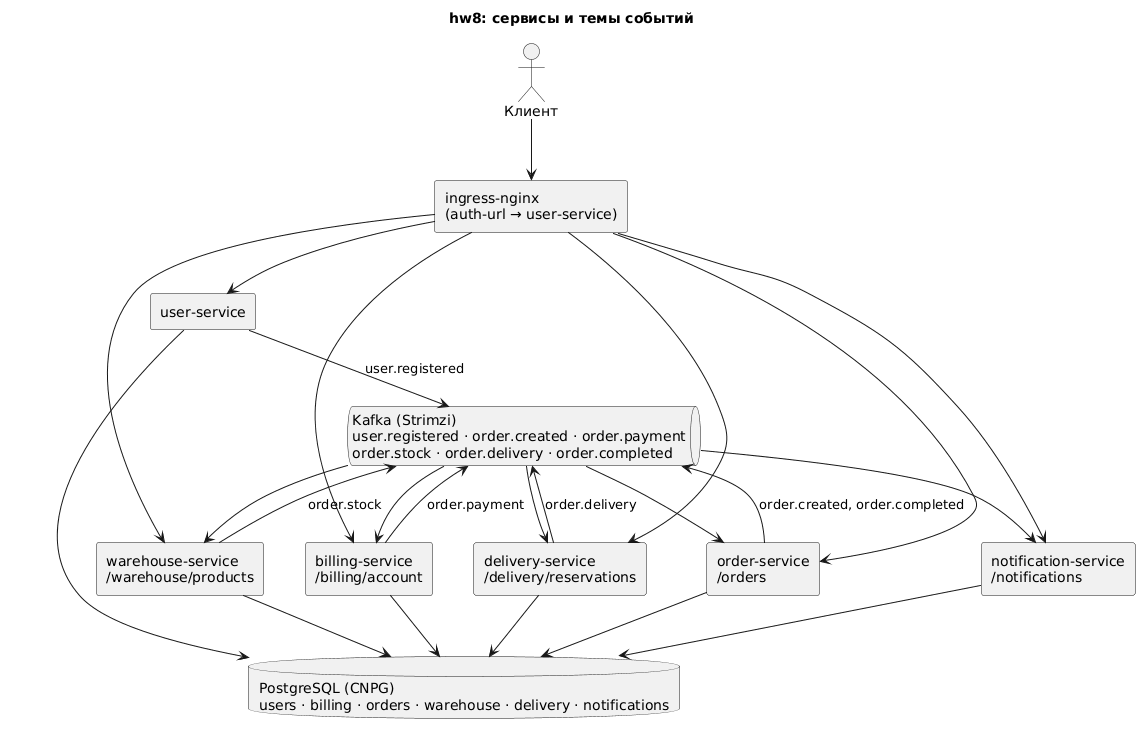
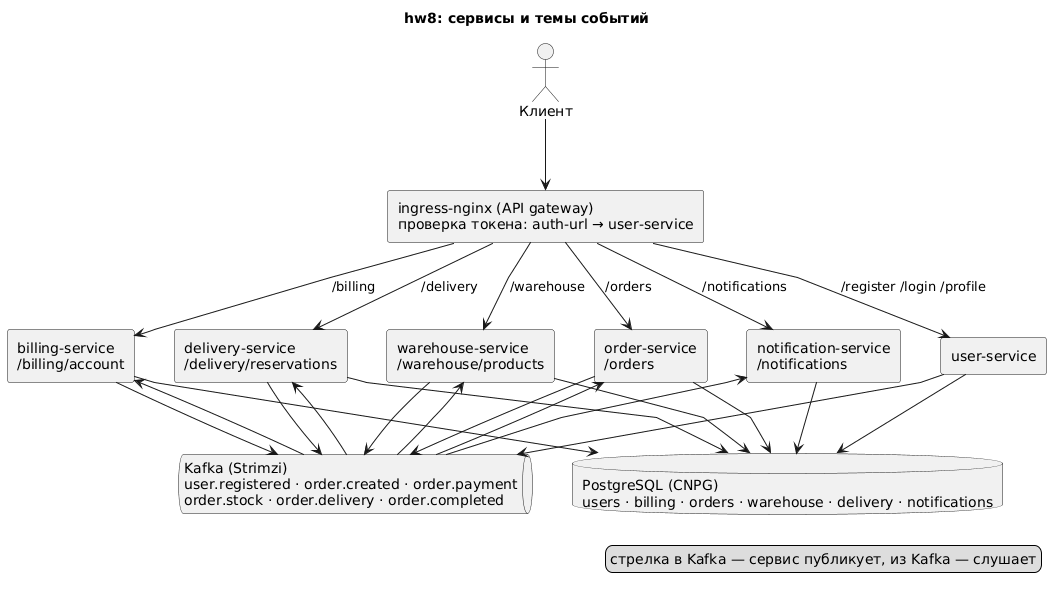
hw8: общий helm-чарт сервисов с values на сервис, схема архитектуры с маршрутами шлюза, самодостаточный README с двумя путями установки и порядком удаления.

diff --git a/hw8-distributed-transactions/README.md b/hw8-distributed-transactions/README.md
@@ -31,9 +31,9 @@ Kafka, каждый шаг добавляет в него свой `status` и `
 | `order.delivery FAILED` | warehouse-service и billing-service | склад снимает резерв по `orderId`, биллинг возвращает `price` |
 
 Почему хореография, а не оркестратор или двухфазный коммит: шагов три и порядок линейный,
-каждый сервис знает только свои темы, а Kafka и события уже есть с hw7; откаты это обычные
-обработчики событий об отказе. Двухфазный коммит потребовал бы блокировок в трёх базах и
-координатора, что для такого потока избыточно. Ключ сообщений во всех темах — `orderId`,
+каждый сервис знает только свои темы, а Kafka и события уже лежат в основе заказов и
+уведомлений; откаты это обычные обработчики событий об отказе. Двухфазный коммит потребовал
+бы блокировок в трёх базах и координатора, что для такого потока избыточно. Ключ сообщений во всех темах — `orderId`,
 поэтому события одного заказа обрабатываются по порядку. По условию задания сбои сервисов и
 повторная доставка не рассматриваются.
 
@@ -42,8 +42,11 @@ Kafka, каждый шаг добавляет в него свой `status` и `
 ![Схема](docs/architecture.png)
 
 Шесть сервисов в namespace `msa`, у каждого своя база в одном кластере PostgreSQL,
-общая Kafka, вход через ingress-nginx с проверкой JWT в user-service (`auth-url`,
-заголовок `X-User-Id`). На складе два товара: `1` с остатком 100 и `2` с остатком 0; курьер
+общая Kafka. Клиент ходит ко всем сервисам по HTTP через ingress-nginx: регистрация и вход в
+user-service, пополнение и баланс в billing-service, заказы в order-service, остатки на складе,
+резервы курьера и письма в своих сервисах. На защищённых путях ingress-nginx проверяет JWT
+запросом в user-service (`auth-url`) и подставляет `X-User-Id`. Между собой сервисы по HTTP не
+общаются: только события через Kafka. На складе два товара: `1` с остатком 100 и `2` с остатком 0; курьер
 один, поэтому слот можно занять один раз.
 
 ## API
@@ -52,7 +55,8 @@ Kafka, каждый шаг добавляет в него свой `status` и `
 
 | Метод | Путь | Ответ |
 |---|---|---|
-| `POST /register`, `POST /login` | как в hw6 | 201 / 200 `{token}` |
+| `POST /register` | `{username, password, firstName, lastName, email, phone}` | 201 пользователь; событие `user.registered` |
+| `POST /login` | `{username, password}` | 200 `{token, expiresIn}` |
 | `GET /billing/account`, `POST /billing/account/deposit {amount}` | | 200 `{userId, balance}` |
 | `POST /orders` | `{price, productId, quantity, slot}` | 201 заказ `NEW`; запуск саги |
 | `GET /orders`, `GET /orders/{id}` | | `status`: `NEW`, `PAID`, `RESERVED`, `CONFIRMED`, `CANCELLED` + `reason` |
@@ -62,19 +66,37 @@ Kafka, каждый шаг добавляет в него свой `status` и `
 
 ## Состав
 
-- `services/<имя>/` — шесть Gradle-проектов: user, billing, order, warehouse, delivery,
-  notification; раскладка как в hw7, события в пакете `event`, снимок заказа — запись
-  `OrderEvent`. Образы `boldyrevma/<имя>:hw8`.
+- `services/<имя>/` — шесть самостоятельных Gradle-проектов: user, billing, order, warehouse,
+  delivery, notification; у каждого `controller`, `service`, `repository`, `entity`, `dto`,
+  `event` (записи событий, слушатели `@KafkaListener`, издатели через `KafkaTemplate`; снимок
+  заказа — запись `OrderEvent`), миграции Flyway, тесты, Dockerfile. Образы
+  `boldyrevma/<имя>:hw8`.
+- `helm/service/` — общий чарт сервиса, `helm/values/<имя>.yaml` — значения шести сервисов.
 - `k8s/` — namespace, Secret, пять `Database`, шесть `KafkaTopic`, по файлу на сервис,
   два Ingress. `kafka/kafka.yaml` — Kafka для Strimzi, `db/` — values CloudNativePG.
 - `postman/order-saga.postman_collection.json` — сценарий: успешная сага и три отказа с
   проверкой откатов; `postman/newman-output.txt` — вывод прогона.
 - `docs/` — схемы саги и архитектуры.
+- `kind/`, `ingress-nginx/` — конфигурация кластера и ingress-контроллера.
+
+## Кластер и ingress-nginx
+
+```bash
+minikube start --driver=docker --ports=127.0.0.1:80:80,127.0.0.1:443:443 --memory 6g
+# или: kind create cluster --config kind/cluster.yaml
+# в /etc/hosts: 127.0.0.1 arch.homework
+
+kubectl create namespace m
+helm repo add ingress-nginx https://kubernetes.github.io/ingress-nginx/
+helm repo update
+helm install nginx ingress-nginx/ingress-nginx --namespace m -f ingress-nginx/values.yaml
+kubectl -n m rollout status daemonset/nginx-ingress-nginx-controller
+```
 
 ## Установка
 
-Namespace приложения `msa`, операторы в `cnpg-system` и `kafka`; кластер и ingress-nginx
-как в hw7.
+Namespace приложения `msa`, операторы в своих: CloudNativePG в `cnpg-system`, Strimzi в
+`kafka` (он следит за ресурсами Kafka в `msa`).
 
 ```bash
 helm repo add cnpg https://cloudnative-pg.github.io/charts
@@ -93,11 +115,39 @@ helm install msa-db cnpg/cluster --namespace msa -f db/values.yaml
 kubectl apply -f kafka/kafka.yaml
 kubectl -n msa wait cluster/msa-db --for=condition=Ready --timeout=300s
 kubectl -n msa wait kafka/msa-kafka --for=condition=Ready --timeout=600s
+```
 
+Сервисы, путь 1: манифестами. Одна команда применяет всё по порядку номеров: базы, темы,
+миграции, приложения, Ingress; Job и поды дожидаются базы через initContainer:
+
+```bash
 kubectl apply -f k8s/
 kubectl -n msa wait job --all --for=condition=complete --timeout=300s
 kubectl -n msa rollout status deployment --timeout=300s
 ```
+
+Сервисы, путь 2: общим чартом. Чарт `helm/service` описывает ConfigMap, Job миграций,
+Deployment и Service, различия между сервисами (образ, база, секреты) лежат в
+`helm/values/<имя>.yaml`, имя релиза становится именем сервиса, на него ссылаются Ingress.
+Базы, темы и Ingress остаются манифестами, чарт ставится шесть раз:
+
+```bash
+kubectl apply -f k8s/02-databases.yaml -f k8s/03-kafka-topics.yaml
+helm install user-service helm/service --namespace msa -f helm/values/user-service.yaml
+helm install billing-service helm/service --namespace msa -f helm/values/billing-service.yaml
+helm install order-service helm/service --namespace msa -f helm/values/order-service.yaml
+helm install warehouse-service helm/service --namespace msa -f helm/values/warehouse-service.yaml
+helm install delivery-service helm/service --namespace msa -f helm/values/delivery-service.yaml
+helm install notification-service helm/service --namespace msa -f helm/values/notification-service.yaml
+kubectl apply -f k8s/40-ingress.yaml -f k8s/41-ingress-auth.yaml
+kubectl -n msa wait job --all --for=condition=complete --timeout=300s
+kubectl -n msa rollout status deployment --timeout=300s
+```
+
+Один чарт вместо шести копий: шаблоны одни, различается только values. В продуктовой
+раскладке такие шаблоны выносят в library-чарт, а чарт каждого сервиса держат рядом с его
+кодом; здесь это был бы лишний слой. Обновление сервиса — `helm upgrade` с новым тегом
+образа, Job миграций создаётся заново с номером ревизии.
 
 Образы собираются и публикуются из каждого `services/<имя>` командами
 `./gradlew build`, `docker build --platform linux/amd64 -t boldyrevma/<имя>:hw8 .`,
@@ -118,11 +168,23 @@ out of stock`, деньги вернулись, баланс 40; заказ на
 
 ## Удаление
 
+Темы Kafka удаляются первыми, пока жив topic operator: у `KafkaTopic` стоит его финализатор, и
+если удалить namespace целиком, темы останутся висеть и не дадут namespace исчезнуть.
+
 ```bash
-kubectl delete -f k8s/
+kubectl delete -f k8s/03-kafka-topics.yaml
+helm uninstall user-service billing-service order-service warehouse-service delivery-service notification-service -n msa   # только при установке чартом
+helm uninstall msa-db --namespace msa
+kubectl delete -f k8s/                       # приложения, базы, Kafka, namespace msa с томами
 helm uninstall strimzi --namespace kafka && kubectl delete namespace kafka
 helm uninstall cnpg --namespace cnpg-system && kubectl delete namespace cnpg-system
 helm uninstall nginx --namespace m && kubectl delete namespace m
 ```
 
-Удаление namespace `msa` уносит кластер PostgreSQL и Kafka вместе с томами.
+Релиз базы снимается до удаления namespace: вместе с namespace исчезает и запись helm о
+релизе; Kafka удаляется вместе с namespace.
+
+Если после удаления namespace `msa` ставить приложение заново, не переустанавливая Strimzi,
+сначала повторите `helm upgrade strimzi ...` с теми же параметрами: оператор держит свои
+права (RoleBinding) внутри наблюдаемого namespace, они исчезают вместе с ним, и без этого
+шага Kafka в новом `msa` не создастся.
